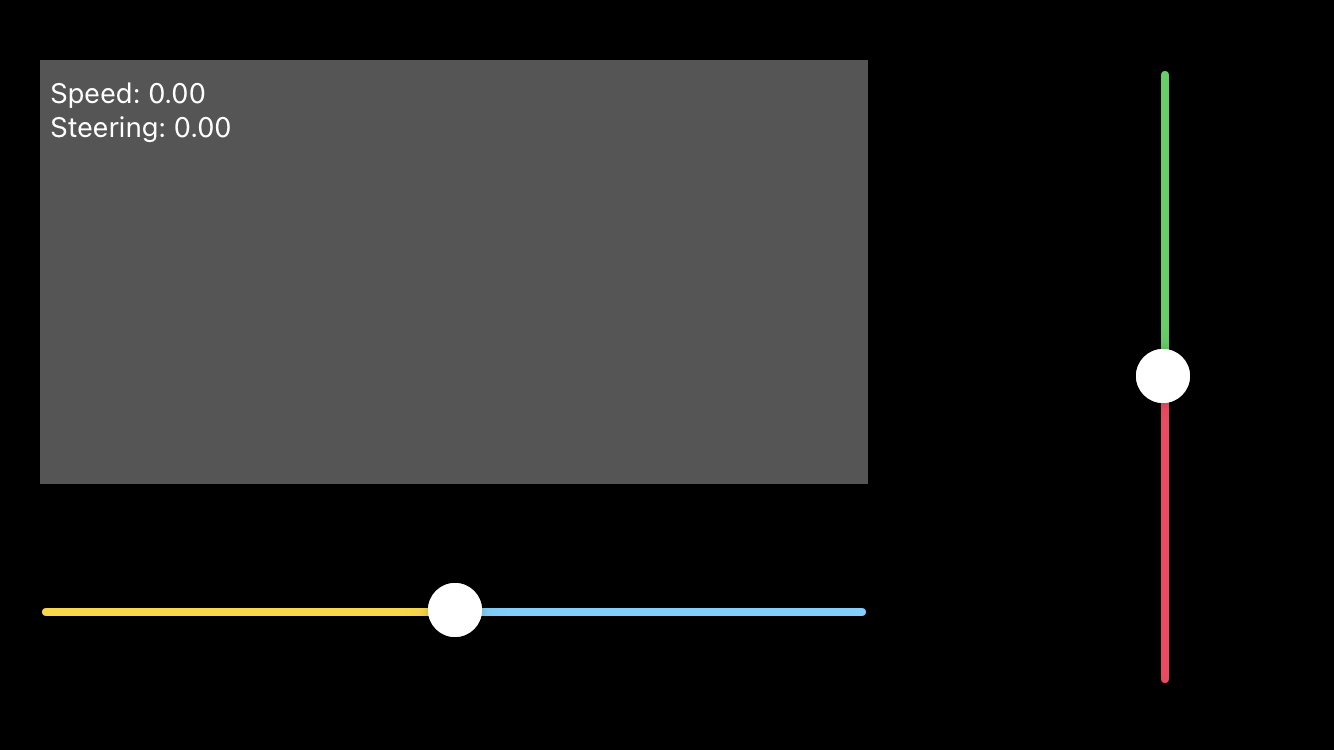
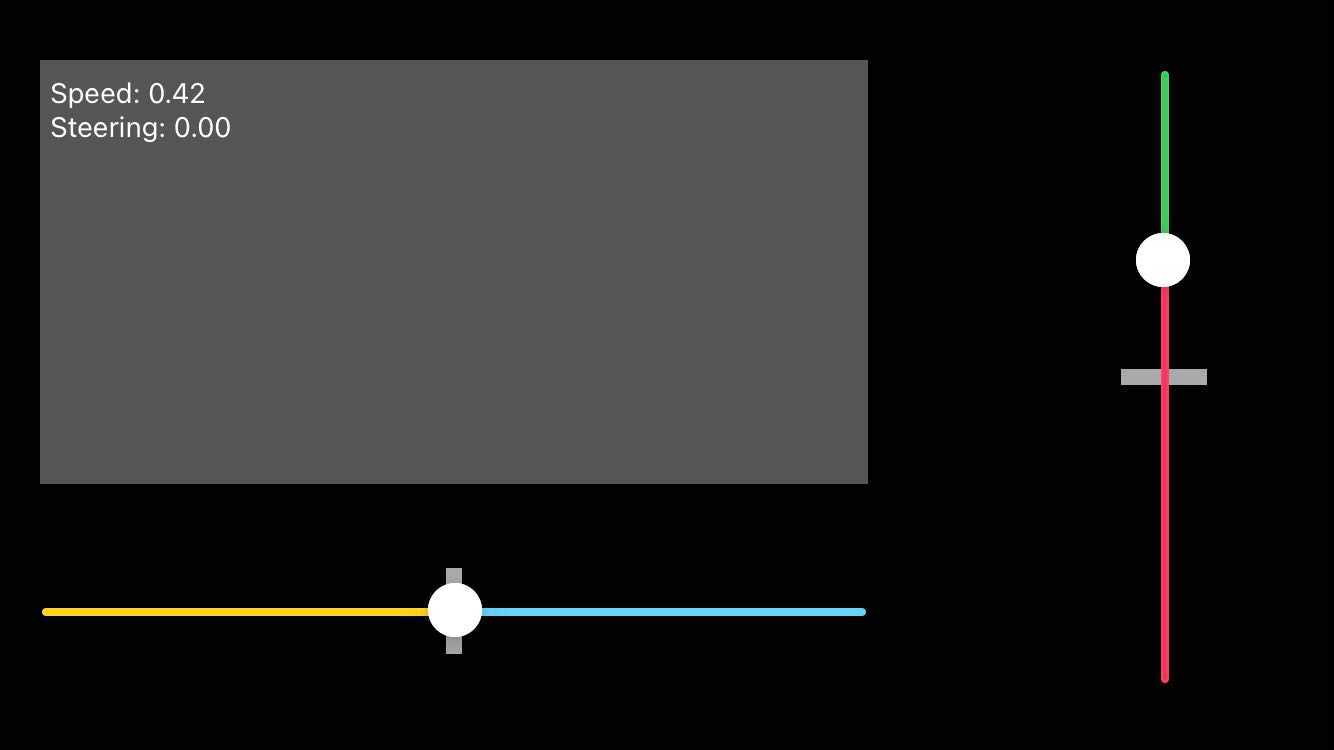
Add lines to show the slider origins

diff --git a/RoboControl/ViewController.swift b/RoboControl/ViewController.swift
@@ -41,9 +41,46 @@ class ViewController: UIViewController, CBCentralManagerDelegate, CBPeripheralDe
     
     @IBOutlet weak var logarea: UITextView!
     
+    @IBOutlet weak var speed_origin_line: UIView!
+    
+    @IBOutlet weak var steering_origin_line: UIView! {
+        didSet {
+            steering_origin_line.transform = CGAffineTransform(rotationAngle: -CGFloat.pi/2)
+        } // didSet
+    } // IBOutlet
+    
     var prev_speed: Float = 0.0;
     var prev_steer: Float = 0.0;
     var prev_ble_sent_time = CACurrentMediaTime();
+    
+    override func viewDidLoad() {
+        super.viewDidLoad()
+        
+        let speed_line_x = speedcontrol.center.x - speed_origin_line.frame.width/2.0;
+        
+        let speed_line_y = speedcontrol.center.y - speed_origin_line.frame.height/2.0;
+        
+        speed_origin_line.frame = CGRect(x:speed_line_x, y:speed_line_y, width:speed_origin_line.frame.width, height:speed_origin_line.frame.height)
+        
+        speed_origin_line.layer.zPosition = -1;
+        
+        let steer_line_x = steercontrol.center.x - steering_origin_line.frame.width/2.0;
+        
+        let steer_line_y = steercontrol.center.y - steering_origin_line.frame.height/2.0;
+        
+        steering_origin_line.frame = CGRect(x:steer_line_x, y:steer_line_y, width:steering_origin_line.frame.width, height:steering_origin_line.frame.height)
+        
+        steering_origin_line.layer.zPosition = -1;
+        
+        centralManager = CBCentralManager(delegate: self, queue: nil);
+        
+        // Add a gesture recognizer to the slider
+        let tapGestureRecognizer = UITapGestureRecognizer(target: self, action: #selector(speedSliderTapped(gestureRecognizer:)))
+        speedcontrol.addGestureRecognizer(tapGestureRecognizer)
+        
+        let steertapGestureRecognizer = UITapGestureRecognizer(target: self, action: #selector(steerSliderTapped(gestureRecognizer:)))
+        steercontrol.addGestureRecognizer(steertapGestureRecognizer)
+    }
     
     func centralManagerDidUpdateState(_ central: CBCentralManager) {
         if central.state == CBManagerState.poweredOn {
@@ -175,20 +212,7 @@ class ViewController: UIViewController, CBCentralManagerDelegate, CBPeripheralDe
         
         peripheral.discoverServices([BLEService_UUID])
     }
-        
     
-    override func viewDidLoad() {
-        super.viewDidLoad()
-        
-        centralManager = CBCentralManager(delegate: self, queue: nil);
-        
-        // Add a gesture recognizer to the slider
-        let tapGestureRecognizer = UITapGestureRecognizer(target: self, action: #selector(speedSliderTapped(gestureRecognizer:)))
-        speedcontrol.addGestureRecognizer(tapGestureRecognizer)
-        
-        let steertapGestureRecognizer = UITapGestureRecognizer(target: self, action: #selector(steerSliderTapped(gestureRecognizer:)))
-        steercontrol.addGestureRecognizer(steertapGestureRecognizer)
-    }
     
     @objc func speedSliderTapped(gestureRecognizer: UIGestureRecognizer) {
             //  print("A")
